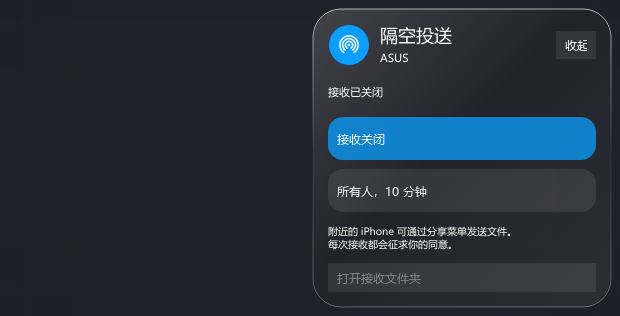
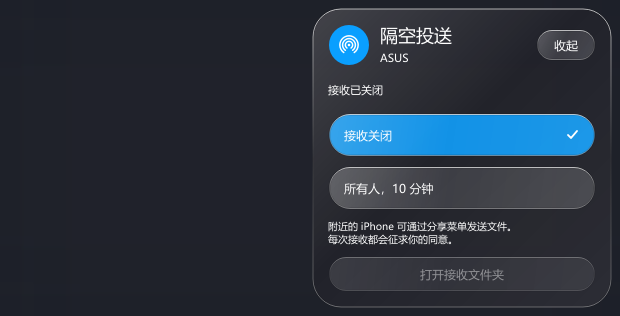
统一Wisland隔空投送详情的全部玻璃按钮

diff --git a/integrations/wisland/payload/ui/airdrop.py b/integrations/wisland/payload/ui/airdrop.py
@@ -2,7 +2,7 @@
 from __future__ import annotations
 from PySide6 import QtCore, QtGui, QtWidgets
 from .theme import theme, ui_font, W
-from .control_skin import BLUE, draw_symbol, glass_surface
+from .control_skin import BLUE, draw_symbol, glass_surface, GlassButton
 from .backdrop_filter import blur_frame, composite_widget
 
 Qt = QtCore.Qt
@@ -59,20 +59,21 @@ class AirDropPanel(QtWidgets.QWidget):
         titles.addWidget(self.label('隔空投送', 18, W.DemiBold))
         self.name = self.label('AirDrop', 11)
         titles.addWidget(self.name); header.addLayout(titles, 1)
-        self.close_button = QtWidgets.QPushButton('收起')
+        self.close_button = GlassButton('收起', height=32)
         self.close_button.setAccessibleName('收起隔空投送')
-        self.close_button.setFixedSize(40, 28)
+        self.close_button.setFixedWidth(60)
         self.close_button.clicked.connect(self.close)
         header.addWidget(self.close_button)
         layout.addLayout(header)
         self.status = self.label('正在连接…', 11)
         self.status.setWordWrap(True); self.status.setMaximumHeight(58)
         layout.addWidget(self.status)
-        self.off = QtWidgets.QPushButton('接收关闭')
-        self.everyone = QtWidgets.QPushButton('所有人，10 分钟')
+        self.off = GlassButton('接收关闭', height=44, choice=True)
+        self.everyone = GlassButton('所有人，10 分钟', height=44, choice=True)
+        self.choices = QtWidgets.QButtonGroup(self)
+        self.choices.setExclusive(True)
         for button in (self.off, self.everyone):
-            button.setMinimumHeight(43); button.setCheckable(True)
-            button.setCursor(Qt.CursorShape.PointingHandCursor)
+            self.choices.addButton(button)
             layout.addWidget(button)
         self.off.clicked.connect(lambda: self.service.command('stop'))
         self.everyone.clicked.connect(lambda: self.service.command('start'))
@@ -85,7 +86,7 @@ class AirDropPanel(QtWidgets.QWidget):
         self.request_text.setWordWrap(True); self.request_text.setMaximumHeight(100)
         request_layout.addWidget(self.request_text)
         actions = QtWidgets.QHBoxLayout()
-        self.decline = QtWidgets.QPushButton('拒绝'); self.accept = QtWidgets.QPushButton('接收')
+        self.decline = GlassButton('拒绝'); self.accept = GlassButton('接收', primary=True)
         self.decline.clicked.connect(lambda: self.respond(False))
         self.accept.clicked.connect(lambda: self.respond(True))
         actions.addWidget(self.decline); actions.addWidget(self.accept)
@@ -93,9 +94,10 @@ class AirDropPanel(QtWidgets.QWidget):
         self.progress = QtWidgets.QProgressBar()
         self.progress.setRange(0, 100); self.progress.setFixedHeight(6); self.progress.setTextVisible(False)
         layout.addWidget(self.progress)
-        self.open_folder = QtWidgets.QPushButton('打开接收文件夹')
-        self.open_folder.setMinimumHeight(29); self.open_folder.clicked.connect(self.folder)
+        self.open_folder = GlassButton('打开接收文件夹', height=36)
+        self.open_folder.clicked.connect(self.folder)
         layout.addWidget(self.open_folder)
+        self.buttons = (self.close_button, self.off, self.everyone, self.decline, self.accept, self.open_folder)
         self.request_card.hide(); self.progress.hide()
         self._animation = QtCore.QVariantAnimation(self, duration=260)
         self._animation.setEasingCurve(QtCore.QEasingCurve.Type.OutCubic)
@@ -121,14 +123,11 @@ class AirDropPanel(QtWidgets.QWidget):
 
     def restyle(self):
         fg = theme.text().name()
-        row = 'rgba(255,255,255,22)' if theme.dark else 'rgba(255,255,255,120)'
         self.setStyleSheet(f'QLabel{{color:{fg};background:transparent}}'
-                           f'QPushButton{{color:{fg};background:{row};border:0;border-radius:15px;padding:6px 9px;font-size:12px;text-align:left}}'
-                           'QPushButton:checked{background:rgba(10,159,255,190);color:white}'
-                           'QPushButton:hover{border:1px solid rgba(255,255,255,100)}'
-                           'QPushButton:disabled{color:#888}'
                            'QProgressBar{background:rgba(128,128,128,40);border:0;border-radius:3px}'
                            'QProgressBar::chunk{background:#0a9fff;border-radius:3px}')
+        for button in self.buttons:
+            button.update()
         self.update(); self.card.update()
         self.refresh_backdrop()
 
@@ -332,6 +331,10 @@ class AirDropPanel(QtWidgets.QWidget):
                       navBlurVisible=bool(nav and nav.isVisible() and self.isVisible() and
                                           self.rect().contains(QtCore.QRect(nav.mapTo(self.parentWidget(), QtCore.QPoint()), nav.size()))),
                       navSharesWindow=bool(nav and nav.window() is self.window()),
+                      buttonsUnified=all(isinstance(button, GlassButton) for button in self.buttons),
+                      buttonCount=len(self.buttons),
+                      buttonTextFits=all(QtGui.QFontMetrics(button.font()).horizontalAdvance(button.text()) <= button.text_rect().width()
+                                         for button in self.buttons if button.isVisible()),
                       scope='application-owned geometry check; no control commands issued by this check')
         target = Path(path); target.parent.mkdir(parents=True, exist_ok=True)
         report['surfaceCaptureSaved'] = self.window().grab().save(str(target.with_suffix('.png')))

diff --git a/integrations/wisland/payload/ui/control_skin.py b/integrations/wisland/payload/ui/control_skin.py
@@ -1,5 +1,5 @@
 """Original vector connectivity symbols and glass surfaces, shared by tile/detail."""
-from PySide6 import QtCore, QtGui
+from PySide6 import QtCore, QtGui, QtWidgets
 from .theme import theme, ui_font, W
 from .widgets import Hoverable, painter
 
@@ -32,7 +32,7 @@ def draw_symbol(p, kind, rect, color=QtGui.QColor('white')):
     p.restore()
 
 
-def glass_surface(p, widget, rect, radius, island=None, strength=1.0, background=None):
+def glass_surface(p, widget, rect, radius, island=None, strength=1.0, background=None, base_color=None):
     path = QtGui.QPainterPath(); path.addRoundedRect(rect, radius, radius)
     backdrop = getattr(island, 'backdrop', None)
     if background is not None:
@@ -44,7 +44,7 @@ def glass_surface(p, widget, rect, radius, island=None, strength=1.0, background
         brush = backdrop.brush_for(backdrop.state, widget.mapToGlobal(QtCore.QPoint()))
         if brush is not None:
             p.fillPath(path, brush)
-    tint = theme.tint()
+    tint = QtGui.QColor(base_color) if base_color is not None else theme.tint()
     tint.setAlpha(min(235, int(tint.alpha() * strength)))
     p.fillPath(path, tint)
     gloss = QtGui.QLinearGradient(rect.topLeft(), rect.bottomRight())
@@ -58,6 +58,81 @@ def glass_surface(p, widget, rect, radius, island=None, strength=1.0, background
     rim.setColorAt(1, QtGui.QColor(255, 255, 255, 90))
     p.strokePath(path, QtGui.QPen(QtGui.QColor(0, 0, 0, 45), 2))
     p.strokePath(path, QtGui.QPen(QtGui.QBrush(rim), 1))
+
+
+class GlassButton(QtWidgets.QAbstractButton):
+    """One glass capsule renderer with native button semantics, in every state."""
+    def __init__(self, text, parent=None, *, height=40, choice=False, primary=False):
+        super().__init__(parent)
+        self.choice, self.primary = choice, primary
+        self._hovered = False
+        self.setText(text); self.setFont(ui_font(12.5, W.Medium))
+        self.setFixedHeight(height)
+        self.setSizePolicy(QtWidgets.QSizePolicy.Policy.Expanding, QtWidgets.QSizePolicy.Policy.Fixed)
+        self.setFocusPolicy(Qt.FocusPolicy.StrongFocus)
+        self.setCursor(Qt.CursorShape.PointingHandCursor)
+        self.setAttribute(Qt.WidgetAttribute.WA_Hover)
+        self.setCheckable(choice)
+        self.pressed.connect(self.update); self.released.connect(self.update)
+        self.toggled.connect(lambda _: self.update())
+        theme.changed.connect(self.update)
+
+    def sizeHint(self):
+        return QtCore.QSize(QtGui.QFontMetrics(self.font()).horizontalAdvance(self.text()) +
+                           (58 if self.choice else 32), self.minimumHeight())
+
+    def minimumSizeHint(self):
+        return self.sizeHint()
+
+    def text_rect(self):
+        return QtCore.QRectF(self.rect()).adjusted(16, 1, -42 if self.choice else -16, -1)
+
+    def enterEvent(self, event):
+        self._hovered = True; self.update(); super().enterEvent(event)
+
+    def leaveEvent(self, event):
+        self._hovered = False; self.update(); super().leaveEvent(event)
+
+    def focusInEvent(self, event):
+        self.update(); super().focusInEvent(event)
+
+    def focusOutEvent(self, event):
+        self.update(); super().focusOutEvent(event)
+
+    def changeEvent(self, event):
+        if event.type() == QtCore.QEvent.Type.EnabledChange:
+            self._hovered = False; self.update()
+        super().changeEvent(event)
+
+    def paintEvent(self, event):
+        p = painter(self)
+        rect = QtCore.QRectF(self.rect()).adjusted(1.5, 1.5, -1.5, -1.5)
+        if self.isDown() and self.isEnabled():
+            p.translate(rect.center()); p.scale(.985, .985); p.translate(-rect.center())
+        if not self.isEnabled():
+            p.setOpacity(.46)
+        active = self.isChecked() or self.primary
+        base = QtGui.QColor(BLUE) if active else theme.card()
+        if active:
+            base.setAlpha(225)
+        glass_surface(p, self, rect, rect.height() / 2, base_color=base)
+        if self._hovered and self.isEnabled():
+            p.setPen(Qt.PenStyle.NoPen); p.setBrush(QtGui.QColor(255, 255, 255, 20))
+            p.drawRoundedRect(rect, rect.height() / 2, rect.height() / 2)
+        if self.hasFocus() and self.isEnabled():
+            p.setBrush(Qt.BrushStyle.NoBrush)
+            p.setPen(QtGui.QPen(QtGui.QColor(255, 255, 255, 210) if theme.dark or active else BLUE, 1.4))
+            p.drawRoundedRect(rect.adjusted(2, 2, -2, -2), rect.height() / 2 - 2, rect.height() / 2 - 2)
+        p.setFont(self.font()); p.setPen(QtGui.QColor('white') if active else theme.text())
+        align = Qt.AlignmentFlag.AlignVCenter | (Qt.AlignmentFlag.AlignLeft if self.choice else Qt.AlignmentFlag.AlignHCenter)
+        p.drawText(self.text_rect(), align, self.text())
+        if self.choice and self.isChecked():
+            p.setPen(QtGui.QPen(QtGui.QColor('white'), 1.8, Qt.PenStyle.SolidLine,
+                               Qt.PenCapStyle.RoundCap, Qt.PenJoinStyle.RoundJoin))
+            x, y = self.width() - 24, self.height() / 2
+            path = QtGui.QPainterPath(QtCore.QPointF(x - 4, y))
+            path.lineTo(x - 1, y + 3); path.lineTo(x + 5, y - 4)
+            p.drawPath(path)
 
 
 class ConnectionTile(Hoverable):

diff --git a/integrations/wisland/tests/check_extension.py b/integrations/wisland/tests/check_extension.py
@@ -21,6 +21,7 @@ wisland.ui.__path__.insert(0, str(BASE / 'payload/ui'))
 from wisland.services.airdrop import AirDropService
 from wisland.ui.airdrop import AirDropPanel
 from wisland.ui.backdrop_filter import blur_frame, composite_widget
+from wisland.ui.control_skin import GlassButton
 from wisland.ui.theme import theme
 
 app = QtWidgets.QApplication.instance() or QtWidgets.QApplication([])
@@ -83,6 +84,58 @@ class ExtensionChecks(unittest.TestCase):
         self.panel.render({**self.service.state, 'requests': []})
         self.panel.respond(True)
         self.assertEqual(self.service.calls, [])
+    def test_detail_buttons_all_keep_capsule_corners_in_interaction_states(self):
+        self.assertEqual(len(self.panel.findChildren(QtWidgets.QAbstractButton)), 6)
+        self.assertEqual(self.panel.findChildren(QtWidgets.QPushButton), [])
+        self.service.state = {**self.service.state,
+                              'requests': [{'id': 'corners-only', 'sender': 'iPhone', 'files': ['photo.JPG']}]}
+        self.panel.present(); QtTest.QTest.qWait(330)
+        for button in self.panel.buttons:
+            self.assertIsInstance(button, GlassButton)
+            for mode in ('light', 'dark'):
+                theme.set_mode(mode)
+                for state in ('normal', 'hover', 'pressed', 'disabled'):
+                    button.setEnabled(state != 'disabled')
+                    button._hovered = state == 'hover'
+                    button.setDown(state == 'pressed')
+                    frame = QtGui.QImage(button.size(), QtGui.QImage.Format.Format_ARGB32_Premultiplied)
+                    frame.fill(QtCore.Qt.GlobalColor.transparent)
+                    p = QtGui.QPainter(frame)
+                    button.render(p, QtCore.QPoint(), QtGui.QRegion(), QtWidgets.QWidget.RenderFlag.DrawChildren)
+                    p.end()
+                    self.assertEqual(frame.pixelColor(0, 0).alpha(), 0, (button.text(), mode, state))
+                    self.assertEqual(frame.pixelColor(frame.width()-1, frame.height()-1).alpha(), 0, (button.text(), mode, state))
+                    self.assertGreater(frame.pixelColor(frame.width()//2, frame.height()//2).alpha(), 0)
+            button.setEnabled(True); button.setDown(False)
+    def test_button_keyboard_selection_is_exclusive_and_disabled_does_not_dispatch(self):
+        self.panel.present(); QtTest.QTest.qWait(330)
+        self.panel.everyone.setFocus()
+        for _ in range(2):
+            QtTest.QTest.keyClick(self.panel.everyone, QtCore.Qt.Key.Key_Space)
+            self.assertTrue(self.panel.everyone.isChecked())
+            self.assertFalse(self.panel.off.isChecked())
+        self.assertEqual(self.service.calls, [('start', {}), ('start', {})])
+        self.panel.off.setEnabled(False)
+        self.panel.off.click()
+        self.assertEqual(len(self.service.calls), 2)
+        self.panel.off.setEnabled(True); self.panel.off.click()
+        self.assertTrue(self.panel.off.isChecked()); self.assertFalse(self.panel.everyone.isChecked())
+        self.assertEqual(self.service.calls[-1], ('stop', {}))
+    def test_all_six_buttons_fit_in_pending_request_layout_and_both_themes(self):
+        self.service.state = {**self.service.state, 'isRunning': True, 'remainingSeconds': 599, 'message': '接收已开启',
+                              'receiveDirectory': 'D:/fixture/received',
+                              'requests': [{'id': 'layout-only', 'sender': 'iPhone', 'files': ['photo.JPG']}]}
+        for mode in ('light', 'dark'):
+            theme.set_mode(mode)
+            self.panel.present(); QtTest.QTest.qWait(450)
+            for button in self.panel.buttons:
+                self.assertTrue(button.isVisible(), button.text())
+                self.assertGreaterEqual(button.text_rect().width(),
+                                        QtGui.QFontMetrics(button.font()).horizontalAdvance(button.text()), button.text())
+                self.assertTrue(self.panel.card.rect().contains(QtCore.QRect(
+                    button.mapTo(self.panel.card, QtCore.QPoint()), button.size())), button.text())
+            self.page.grab().save(str(BASE.parents[1] / f'artifacts/wisland-buttons-{mode}.png'))
+            self.panel.close(immediate=True)
     def test_close_unlocks_island_without_stopping_receiving(self):
         self.panel.present(); app.processEvents()
         self.assertIn('airdrop', self.page.island.locks)

diff --git a/integrations/wisland/README.md b/integrations/wisland/README.md
@@ -64,3 +64,11 @@ wisland每1.5秒轮询并续租8秒的确认界面归属；出现请求自动展
 展开后的控制页、导航栏和留白合成为一张连续背景，同一强度过渡，详情玻璃也取该模糊上下文。详情层挂在原island.content内部，仍无额外窗口，卡片位置继续以控制页磁贴为锚点；背景按灵动岛轮廓裁剪，避免导航与页面分块产生的矩形接缝。页面伸长时先保证全区域覆盖，再采样新尺寸，避免底部短暂露出清晰控件。沿用原Backdrop更新信号，160ms合并刷新，跳过未变化帧；收起停止刷新并清空图像，不新增桌面采集线程。
 
 透明控件使用不强制绘制默认窗口底色的离屏渲染，避免将系统调色板变成矩形色块。21项Qt检查通过，新增模糊高频衰减、边缘/DPR保真、不透明合成与清晰内容不穿透、透明页面不引入默认底色、调整大小后全区域覆盖、导航同窗口及缓存清理。诊断报告新增blurCoversPage、opaqueBlur、navBlurVisible、navSharesWindow，并在报告旁保存当前应用窗口自身的PNG，便于视觉核查。它不是手机传输或持续帧率验收。
+
+### 所有详情按钮统一玻璃样式
+
+详情中的“收起”“接收关闭”“所有人，10分钟”“拒绝”“接收”“打开接收文件夹”六处统一使用control_skin.GlassButton，以同一玻璃底、细边缘高光、胶囊圆角绘制，避免系统按钮和QSS使短按钮退回方形底色。尺寸按功能分为32/36/40/44逻辑像素高，圆角始终随高度变化；采用同一字体和安全文字留白，不截断短按钮文字。
+
+接收模式为互斥选择并显示勾号，启用/主要操作为蓝色、次要操作为中性玻璃，悬停/按下/禁用/键盘焦点采用一致处理。QAbstractButton保留点击、Space键与禁用语义，禁用不会发出控制命令；点击已选“所有人”仍可刷新10分钟。没有新增网络或无线逻辑。
+
+Qt检查总计24项通过：增加六按钮在明暗及正常/悬停/按下/禁用状态下的透明圆角、键盘互斥/禁用行为，以及含接收请求时全部六处按钮可见且文字/布局完整。布局样例artifacts/wisland-buttons-{light,dark}.png使用虚构请求，不是新的手机传输。实际应用诊断增加buttonsUnified、buttonCount和buttonTextFits。

diff --git a/WORK_LOG.md b/WORK_LOG.md
@@ -67,3 +67,9 @@
 - 用户反馈展开后的模糊处理不足。定位到透明的缩放快照会透出底层清晰控件、快照只覆盖展开前高度，以及导航栏未柔化。改为完整合成不透明应用背景后进行Qt离屏图像模糊，复制边缘像素避免暗边，并保留DPR；详情卡使用同一背景，前景文字不参加模糊。
 - 将导航、控制页和留白合成为一张背景统一柔化，详情层挂在原island.content内部并按原轮廓裁剪，避免分块接缝；卡片继续从控制页磁贴展开。页面伸长时立即完整覆盖，随后重采样。原Backdrop信号合并160ms刷新，未变帧跳过，收起后停止并清空缓存，无新增桌面采集线程。
 - Qt检查增加至21项，覆盖边缘与多DPR、高频图像衰减、不透明快照阻断清晰内容穿透、页面变高后覆盖与导航/缓存生命周期。实际窗口进一步发现透明控件grab会带入默认底色，已改成只渲染控件内容并补防矩形色块检查。实际部署与应用自检结果见VALIDATION；接收协议、驱动和真实传输记录不作本次UI效果的替代证明。
+
+## 2026-11-16：统一隔空投送所有详情按钮
+
+- 用户反馈按钮尚未统一；定位到详情仍混用QPushButton/QSS，“收起”和文件夹入口在实际运行中出现方形底色。六处按钮改用同一GlassButton自绘玻璃胶囊，与卡片共用glass_surface的高光/描边，不再依赖系统按钮绘制；同一字体、文字留白与悬停/按下/禁用/焦点处理。
+- 接收模式采用QButtonGroup互斥选择与勾号，保留点击已选所有人刷新10分钟、启动/停止/逐次接收命令；QAbstractButton保留键盘和无障碍按钮语义。次要/主要操作以中性玻璃/蓝色区分，形状材质一致。
+- 24项Qt检查通过，新增全部六按钮明暗/四种交互状态圆角、Space键互斥/禁用不执行、请求布局六处文字与边界检查。含虚构请求的截图仅为UI证据，实际部署与窗口核查见VALIDATION；没有新增真实手机传输。

diff --git a/docs/WORK_QUEUE.md b/docs/WORK_QUEUE.md
@@ -19,3 +19,4 @@
 | L10 | Wisland隔空投送控制与子窗口 | 完成：已部署至D:/AI/wisland，哈希核对+原控制页备份；同用户命名管道连接现有宿主，关闭/所有人10分钟、逐次确认、进度及完成。17基础、10Qt、4真实IPC检查通过；真实十分钟到期后界面/后台均关闭；新子窗口真实iPhone接收10,092,594B GIF成功（7.993s约1.263MB/s），文件大小/解码通过，本地哈希已记。详情integrations/wisland/README.md及VALIDATION.md |
 | L11 | iPhone式内部展开与连接图标统一 | 完成：AirDrop从磁贴展开为ControlsPage内Qt.Widget；不再创建Dialog/额外原生窗口，共享玻璃背景。统一无线/蓝牙/AirDrop矢量白线图标；外点/Esc/切页收回、收起期新请求与高度/锁清理。15项Qt检查及实际应用同窗口/无原生子窗/边界报告通过；沿用原接收链，本轮无新增手机传输。见integrations/wisland/README.md |
 | L12 | 内部详情展开后的背景模糊 | 完成：不透明合成后离屏模糊，边缘补齐、DPR处理；原island.content内整块背景（导航/页面/留白）连续柔化并按轮廓裁剪，消除分块接缝。尺寸变化全覆盖、合并刷新及收起清缓存。21项Qt检查及实际应用同窗口/完整覆盖报告与自身渲染核查通过，已更新D:/AI/wisland；接收后端未改动 |
+| L13 | 统一隔空投送详情全部按钮 | 完成：六处按钮共用GlassButton玻璃胶囊绘制，统一圆角/高光/交互/禁用/字体，接收模式互斥且带勾号；24项Qt检查通过。已更新wisland，实际窗口buttonsUnified=true、buttonCount=6、buttonTextFits=true，连续模糊/同窗口保持通过；见VALIDATION |

diff --git a/docs/HANDOFF.md b/docs/HANDOFF.md
@@ -31,3 +31,7 @@
 ### 后续背景模糊修正
 
 详情层现挂在同一原窗口的island.content内部，使导航、页面和留白可作为一张背景连续模糊；卡片仍以原磁贴定位，并按原灵动岛轮廓裁剪。新增backdrop_filter.py进行DPR感知的不透明合成/补边离屏模糊，不给实时控件添加effect；复用原Backdrop更新、160ms合并、收起清缓存。21项Qt检查、实际应用完整覆盖/同窗口报告和自身渲染核查通过，已更新D:/AI/wisland。证据及备份位置见VALIDATION本次补充；接收协议未改，此轮没有新手机传输记录。
+
+### 所有详情按钮统一
+
+收起、关闭/所有人、拒绝/接收及文件夹入口六处现统一使用control_skin.GlassButton（QAbstractButton）自绘胶囊玻璃，不依赖QPushButton/QSS；各尺寸共用圆角、字体、边缘高光和交互/禁用状态。模式互斥且有勾号，主要操作蓝色。24项Qt检查及实际窗口buttonsUnified/buttonTextFits通过，已部署；请求状态两按钮用虚构请求截图验证，此轮无新手机传输。恢复备份位置及完整证据见VALIDATION。
